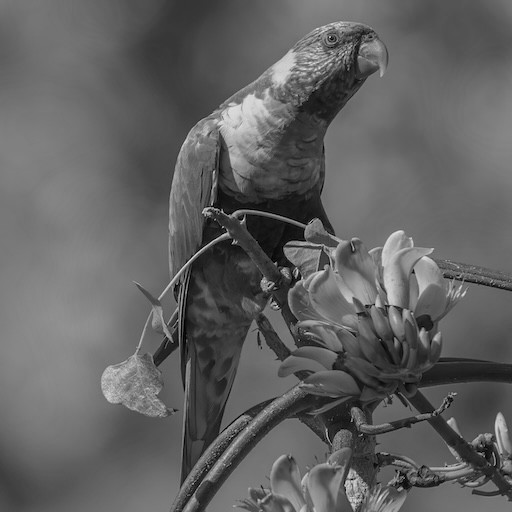
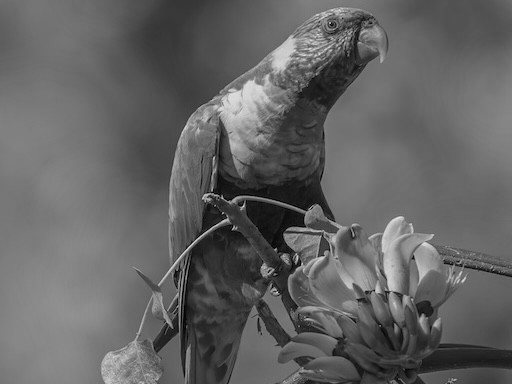
Decrease height of parrot example image to take up less vertical space

diff --git a/tests/cli.md b/tests/cli.md
@@ -6,11 +6,11 @@
 
 ```scrut
 $ ./flatcv imgs/parrot.jpeg grayscale imgs/parrot_grayscale.jpeg
-Loaded image: 512x512 with 3 channels
+Loaded image: 512x384 with 3 channels
 Executing pipeline with 1 operations:
 Applying operation: grayscale
-  → Completed in \d+.\d+ ms \(output: 512x512\) (regex)
-Final output dimensions: 512x512
+  → Completed in \d+.\d+ ms \(output: 512x384\) (regex)
+Final output dimensions: 512x384
 Successfully saved processed image to 'imgs/parrot_grayscale.jpeg'
 ```
 
@@ -23,11 +23,11 @@ $ git diff --quiet imgs/parrot_grayscale.jpeg
 
 ```scrut
 $ ./flatcv imgs/parrot.jpeg blur 9 imgs/parrot_blur.jpeg
-Loaded image: 512x512 with 3 channels
+Loaded image: 512x384 with 3 channels
 Executing pipeline with 1 operations:
 Applying operation: blur with parameter: 9.00
-  → Completed in \d+.\d+ ms \(output: 512x512\) (regex)
-Final output dimensions: 512x512
+  → Completed in \d+.\d+ ms \(output: 512x384\) (regex)
+Final output dimensions: 512x384
 Successfully saved processed image to 'imgs/parrot_blur.jpeg'
 ```
 
@@ -40,13 +40,13 @@ $ git diff --quiet imgs/parrot_blur.jpeg
 
 ```scrut
 $ ./flatcv imgs/parrot.jpeg grayscale, blur 9 imgs/parrot_grayscale_blur.jpeg
-Loaded image: 512x512 with 3 channels
+Loaded image: 512x384 with 3 channels
 Executing pipeline with 2 operations:
 Applying operation: grayscale
-  → Completed in \d+.\d+ ms \(output: 512x512\) (regex)
+  → Completed in \d+.\d+ ms \(output: 512x384\) (regex)
 Applying operation: blur with parameter: 9.00
-  → Completed in \d+.\d+ ms \(output: 512x512\) (regex)
-Final output dimensions: 512x512
+  → Completed in \d+.\d+ ms \(output: 512x384\) (regex)
+Final output dimensions: 512x384
 Successfully saved processed image to 'imgs/parrot_grayscale_blur.jpeg'
 ```
 
@@ -60,7 +60,7 @@ $ git diff --quiet imgs/parrot_grayscale_blur.jpeg
 
 ```scrut
 $ ./flatcv imgs/page.png bw_smart imgs/page_bw_smart.png
-Loaded image: 384x256 with 4 channels
+Loaded image: 384x256 with 1 channels
 Executing pipeline with 1 operations:
 Applying operation: bw_smart
   → Completed in \d+.\d+ ms \(output: 384x256\) (regex)
@@ -77,7 +77,7 @@ $ git diff --quiet imgs/page_bw_smart.png
 
 ```scrut
 $ ./flatcv imgs/page.png bw_smooth imgs/page_bw_smooth.png
-Loaded image: 384x256 with 4 channels
+Loaded image: 384x256 with 1 channels
 Executing pipeline with 1 operations:
 Applying operation: bw_smooth
   → Completed in \d+.\d+ ms \(output: 384x256\) (regex)
@@ -95,11 +95,11 @@ $ git diff --quiet imgs/page_bw_smooth.png
 
 ```scrut
 $ ./flatcv imgs/parrot.jpeg "resize 50%" imgs/parrot_resize_50_percent.jpeg
-Loaded image: 512x512 with 3 channels
+Loaded image: 512x384 with 3 channels
 Executing pipeline with 1 operations:
 Applying operation: resize with parameter: 50%
-  → Completed in \d+.\d+ ms \(output: 256x256\) (regex)
-Final output dimensions: 256x256
+  → Completed in \d+.\d+ ms \(output: 256x192\) (regex)
+Final output dimensions: 256x192
 Successfully saved processed image to 'imgs/parrot_resize_50_percent.jpeg'
 ```
 
@@ -107,36 +107,36 @@ Successfully saved processed image to 'imgs/parrot_resize_50_percent.jpeg'
 
 ```scrut
 $ ./flatcv imgs/parrot.jpeg "resize 50%x200%" imgs/parrot_resize_50x200_percent.jpeg
-Loaded image: 512x512 with 3 channels
+Loaded image: 512x384 with 3 channels
 Executing pipeline with 1 operations:
 Applying operation: resize with parameter: 50%x200%
-  → Completed in \d+.\d+ ms \(output: 256x1024\) (regex)
-Final output dimensions: 256x1024
+  → Completed in \d+.\d+ ms \(output: 256x768\) (regex)
+Final output dimensions: 256x768
 Successfully saved processed image to 'imgs/parrot_resize_50x200_percent.jpeg'
 ```
 
 ### Absolute Size Resize
 
 ```scrut
-$ ./flatcv imgs/parrot.jpeg "resize 800x600" imgs/parrot_resize_800x600.jpeg
-Loaded image: 512x512 with 3 channels
+$ ./flatcv imgs/parrot.jpeg "resize 800x400" imgs/parrot_resize_800x400.jpeg
+Loaded image: 512x384 with 3 channels
 Executing pipeline with 1 operations:
-Applying operation: resize with parameter: 800x600
-  → Completed in \d+.\d+ ms \(output: 800x600\) (regex)
-Final output dimensions: 800x600
-Successfully saved processed image to 'imgs/parrot_resize_800x600.jpeg'
+Applying operation: resize with parameter: 800x400
+  → Completed in \d+.\d+ ms \(output: 800x400\) (regex)
+Final output dimensions: 800x400
+Successfully saved processed image to 'imgs/parrot_resize_800x400.jpeg'
 ```
 
 ### Resize Combined with Other Operations
 
 ```scrut
 $ ./flatcv imgs/parrot.jpeg "grayscale, resize 50%, blur 2" imgs/parrot_gray_resize_blur.jpeg
-Loaded image: 512x512 with 3 channels
+Loaded image: 512x384 with 3 channels
 Executing pipeline with 3 operations:
 Applying operation: grayscale
-  → Completed in \d+.\d+ ms \(output: 512x512\) (regex)
+  → Completed in \d+.\d+ ms \(output: 512x384\) (regex)
 Applying operation: resize with parameter: 50%
-  → Completed in \d+.\d+ ms \(output: 256x256\) (regex)
+  → Completed in \d+.\d+ ms \(output: 256x192\) (regex)
 Applying operation: blur with parameter: 2.00
   → Completed in \d+.\d+ ms \(output: 256x256\) (regex)
 Final output dimensions: 256x256
